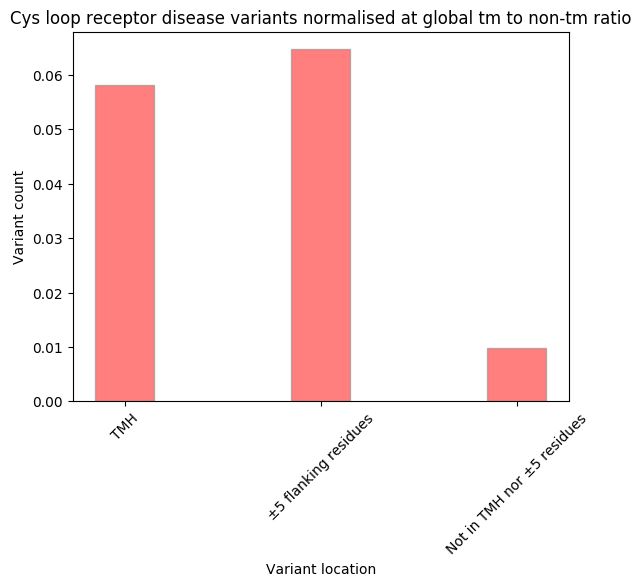
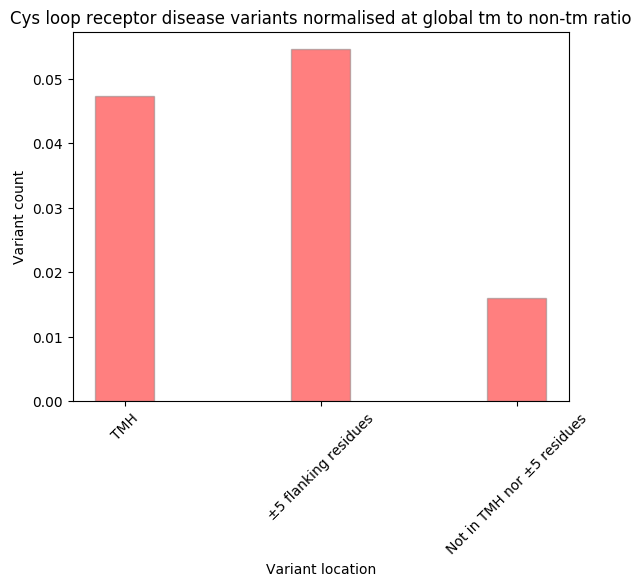
closes security issue in dependencies. Fixes issue of TMHs being mistakenly identified

diff --git a/scripts/populate_tmh.py b/scripts/populate_tmh.py
@@ -91,6 +91,8 @@ def uniprot_table(query_id):
 
     residue_table(query_id, sequence)
 
+    tmh_input([query_id])
+
     binding_residues_to_table(filename)
     subcellular_location(filename)
 
@@ -190,6 +192,7 @@ def uniprot_tm_check(query_id):
                 else:
                     list_of_tmhs.append(int(f.location.start) + 1)
                     list_of_tmhs.append(int(f.location.end))
+                    print(f"TMH found in {query_id}:", int(f.location.start) + 1, int(f.location.end))
                     total_tmh_number = total_tmh_number + 1
 
         if list_of_tmhs:  # Checks if it is a TM protein.
@@ -200,18 +203,18 @@ def uniprot_tm_check(query_id):
         else:
             print("No TMHs found in UniProt text file for", query_id)
 
-        # We can also check if any isoforms are in or near the TM region
-        for i, f in enumerate(record.features):
-            if f.type == "VAR_SEQ":
-                for n, x in enumerate(record.features):
-                    # Remember, feature type is set to transmembrane regions
-                    if x.type == feature_type:
-                        if int(x.location.start) + 1 - 5 <= int(f.location.end) and int(f.location.end) <= int(x.location.end) + 5:
-                            # print("An isoform will interfere with record", record.id)
-                            pass
-                        elif int(x.location.start) + 1 - 5 < int(f.location.start) + 1 and int(f.location.start) + 1 <= int(x.location.end) + 5:
-                            # print("An isoform will interfere with record", record.id)
-                            pass
+        ## We can also check if any isoforms are in or near the TM region
+        #for i, f in enumerate(record.features):
+        #    if f.type == "VAR_SEQ":
+        #        for n, x in enumerate(record.features):
+        #            # Remember, feature type is set to transmembrane regions
+        #            if x.type == feature_type:
+        #                if int(x.location.start) + 1 - 5 <= int(f.location.end) and int(f.location.end) <= int(x.location.end) + 5:
+        #                    # print("An isoform will interfere with record", record.id)
+        #                    pass
+        #                elif int(x.location.start) + 1 - 5 < int(f.location.start) + 1 and int(f.location.start) + 1 <= int(x.location.end) + 5:
+        #                    # print("An isoform will interfere with record", record.id)
+        #                    pass
 
     # Now we can go through the record and write each TMH to the database (separate function)
     for record in SeqIO.parse(filename, input_format):
@@ -226,7 +229,17 @@ def uniprot_tm_check(query_id):
                     # Let's count the tmhs even though they do not have a position and will not be in the database.
                     tmd_count = tmd_count + 1
                 else:
-
+                    # The variables need to be flushed
+                    # query_id = None
+                    tmh_start = None
+                    tmh_stop = None
+                    tmh_topology = None
+                    #evidence_type = None
+                    membrane_location = None
+                    n_ter_seq = None
+                    tmh_sequence = None
+                    c_ter_seq=None
+                    #tmh_number=None
                     tmd_count = tmd_count + 1
                     tmh_number = tmd_count
                     n_terminal_start = "none"
@@ -457,7 +470,9 @@ def tmh_to_database(tmh_list):
     The function also has some integrity checks.
     '''
     # Now we have a complete list of the TMHs.
+
     for tmh_number_iteration, a_tmh in enumerate(tmh_list):
+        print("TMH info:",a_tmh)
         query_id = a_tmh[0]
         tmh_number = a_tmh[1]
         tmh_total_number = a_tmh[2]
@@ -483,6 +498,7 @@ def tmh_to_database(tmh_list):
         else:
             n_terminal_inside = "Unknown"
         tmh_protein = Protein.objects.get(uniprot_id=query_id)
+        print("Generating tmh id key from\nQuery id:",query_id,"\nTMH number:",tmh_number,"\nEvidence:",evidence)
         tmh_unique_id = str(query_id + "." + str(tmh_number) + "." + evidence)
 
         print(tmh_unique_id)
@@ -522,8 +538,7 @@ def tmh_to_database(tmh_list):
         for tmh_residue_number, a_residue in enumerate(sequences_to_add):
 
             # Where is the residue in reference to the TMH
-            sequence_position = int(
-                tmh_start - len(n_ter_seq)) + tmh_residue_number
+            sequence_position = int(tmh_start - len(n_ter_seq)) + tmh_residue_number
 
             if sequence_position < tmh_start:  # This doesn't make sense
                 #"N flank"
@@ -753,8 +768,11 @@ def tmh_input(input_query):
     # Ignore this for now -  we need to sort out uniprot before anything else!
     topdb_url="http://topdb.enzim.hu/?m=download&file=topdb_all.xml"
     topdb_file = 'scripts/external_datasets/topdb_all.xml'
-    download(topdb_url, topdb_file)
-    topdb = ET.parse(topdb_file)
+    try:
+        topdb = ET.parse(topdb_file)
+    except:
+        download(topdb_url, topdb_file)
+        topdb = ET.parse(topdb_file)
     # mptopo = ET.parse('mptopoTblXml.xml')
     for query_number, a_query in enumerate(input_query):
         a_query = clean_query(a_query)
@@ -763,7 +781,11 @@ def tmh_input(input_query):
         # print(clean_query(a_query))
         ### OPM needs adding to here also. ###
         # mptopo_tm_check(a_query)
+        print("Checking tmhs in...")
+        print("UniProt...")
         uniprot_tm_check(a_query)
+        print("Checking tmhs in...")
+        print("TopDB...")
         topdb_check(a_query, topdb)
 
 
@@ -802,4 +824,4 @@ def run():
         uniprot_table(a_query)
 
     ### TMH Tables ###
-    tmh_input(input_query)
+    #tmh_input(input_query)

diff --git a/scripts/query.py b/scripts/query.py
@@ -16,6 +16,10 @@ from scripts.populate_general_functions import *
 from scripts.graphs import *
 import numpy as np
 
+
+#This will eventually act as a test file
+
+
 def protein_query(args):
     print(args)
     return()
@@ -34,8 +38,7 @@ def raw_variant_query(*args):
     tmh_normalised_per_protein = 0
     tmh_flank_count_normalised_per_protein = 0
     non_tmh_count_normalised_per_protein = 0
-
-    list_of_ids = [] #this makes sure we don't double count!
+    tmp_ids_done=[]
 
     for paired_data in f:
 
@@ -47,41 +50,34 @@ def raw_variant_query(*args):
         tmh_residues = Residue.objects.filter(protein__uniprot_id=uniprot_ids, tmh_residue__evidence="UniProt", tmh_residue__feature_location="TMH").count()
         flank_residues = Residue.objects.filter(protein__uniprot_id=uniprot_ids, tmh_residue__evidence="UniProt").exclude(tmh_residue__feature_location="TMH").count()
 
-        if uniprot_ids in list_of_ids:
-            pass
-
-        elif uniprot_ids not in list_of_ids:
+        if uniprot_ids not in tmp_ids_done:
+            print("\n",uniprot_ids,"\nTotal residues\t",total_residues ,"\nTMH residues\t", tmh_residues, "\nNon-TMH residues\t", non_tmh_residues, "\nFlank Residues\t", flank_residues)
             total_flank = total_flank + flank_residues
-            tmh_residue_type="non-TMH"
             total_tmh = total_tmh + tmh_residues
             total_non_tmh= total_non_tmh + non_tmh_residues
-            list_of_ids.append(uniprot_ids)
+            tmp_ids_done.append(uniprot_ids)
 
 
-
-
+        tmh_residue_type="non-TMH"
         is_it_in_a_tmh = Residue.objects.filter(protein__uniprot_id=uniprot_ids, sequence_position=positions, tmh_residue__evidence="UniProt")
         try:
             if is_it_in_a_tmh.count() == 0:
-                tmh_residue=False
                 non_tmh_count=non_tmh_count+1
-                non_tmh_count_normalised_per_protein=non_tmh_count_normalised_per_protein+1/(non_tmh_residues/total_residues)
+                #non_tmh_count_normalised_per_protein=non_tmh_count_normalised_per_protein+1/(non_tmh_residues/total_residues)
 
 
             elif is_it_in_a_tmh.count() == 1:
                 is_it_in_a_tmh_core = Residue.objects.filter(protein__uniprot_id=uniprot_ids, sequence_position=positions, tmh_residue__evidence="UniProt", tmh_residue__feature_location="TMH")
                 if is_it_in_a_tmh_core.count() == 1:
-                    tmh_residue=True
                     tmh_residue_type="TMH"
                     tmh_count=tmh_count+1
-                    tmh_normalised_per_protein = tmh_normalised_per_protein+1/(tmh_residues/total_residues)
+                    #tmh_normalised_per_protein = tmh_normalised_per_protein+1/(tmh_residues/total_residues)
 
                 is_it_in_a_tmh_flank = Residue.objects.filter(protein__uniprot_id=uniprot_ids, sequence_position=positions, tmh_residue__evidence="UniProt").exclude(tmh_residue__feature_location="TMH")
                 if is_it_in_a_tmh_flank.count() == 1:
-                    tmh_residue=True
                     tmh_residue_type="Flank"
                     tmh_flank_count=tmh_flank_count+1
-                    tmh_flank_count_normalised_per_protein=tmh_flank_count_normalised_per_protein+1/(flank_residues/total_residues)
+                    #tmh_flank_count_normalised_per_protein=tmh_flank_count_normalised_per_protein+1/(flank_residues/total_residues)
 
         except(ZeroDivisionError):
             pass
@@ -96,12 +92,12 @@ def raw_variant_query(*args):
     print(source, "\n" ,objects, "\n", performance)
     barchart(objects, performance, source, state, "Variant location", "Variant count")
 
-    objects = ["TMH", "±5 flanking residues", "Not in TMH nor ±5 residues"]
-    performance = [tmh_normalised_per_protein, tmh_flank_count_normalised_per_protein, non_tmh_count_normalised_per_protein]
-    source="Cys loop receptor disease variants normalised 1 div per protein tm to non-tm ratio"
-    state = "d"
-    print(source, "\n" ,objects, "\n", performance)
-    barchart(objects, performance, source, state, "Variant location", "Variant count")
+    #objects = ["TMH", "±5 flanking residues", "Not in TMH nor ±5 residues"]
+    #performance = [tmh_normalised_per_protein, tmh_flank_count_normalised_per_protein, non_tmh_count_normalised_per_protein]
+    #source="Cys loop receptor disease variants normalised 1 div per protein tm to non-tm ratio"
+    #state = "d"
+    #print(source, "\n" ,objects, "\n", performance)
+    #barchart(objects, performance, source, state, "Variant location", "Variant count")
 
     objects = ["TMH", "±5 flanking residues", "Not in TMH nor ±5 residues"]
     performance = [tmh_count/total_tmh, tmh_flank_count/total_flank, non_tmh_count/total_non_tmh]

diff --git a/scripts/populate_structure.py b/scripts/populate_structure.py
@@ -168,3 +168,5 @@ def run():
         a_query = clean_query(a_query)
         print("Mapping", a_query, "via SIFTS...")
         sifts_mapping(a_query)
+
+# sftp://ebi-login.ebi.ac.uk/nfs/public2/release/thornton-www/software/html/PoreWalker PORE WALKER FILES
